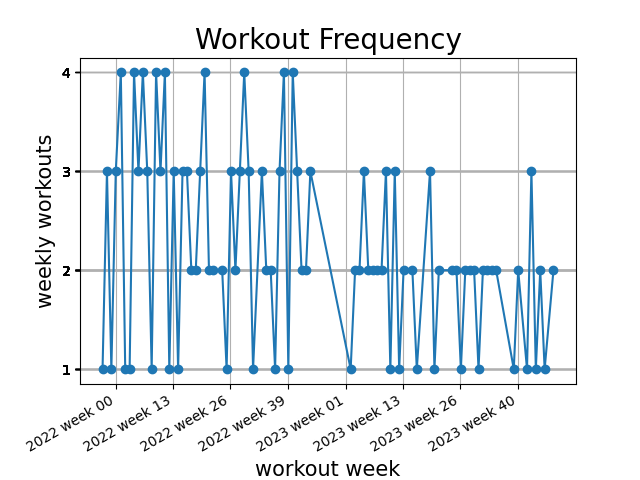
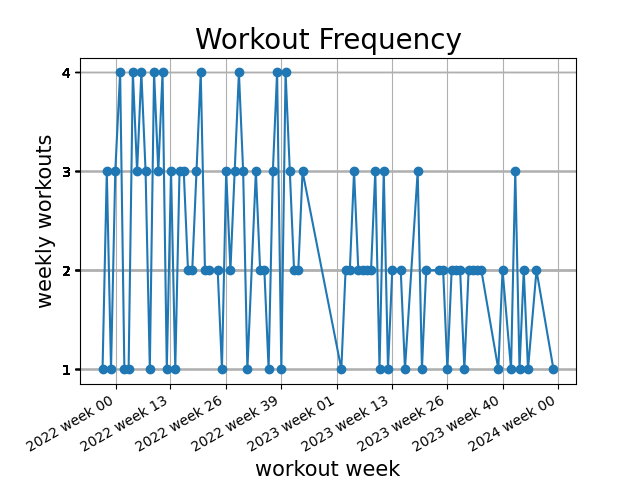
feat: add leg workout. Add December to examples

Changed region(s): [[0.1562, 0.125, 0.875, 0.7812], [0.2188, 0.8125, 0.875, 0.9375], [0.125, 0.8125, 0.2812, 0.9375]]

diff --git a/examples/EXAMPLES.md b/examples/EXAMPLES.md
@@ -24,6 +24,7 @@ VO2-Max: `55.21923 mL/kg/min`<br>
 
 #### 2023:
 
+- <a style="text-align: center;">[December](../img/workout_duration_December_2023.png)<br>
 - <a style="text-align: center;">[November](../img/workout_duration_November_2023.png)<br>
 - <a style="text-align: center;">[October](../img/workout_duration_October_2023.png)<br>
 - <a style="text-align: center;">[September](../img/workout_duration_September_2023.png)<br>
